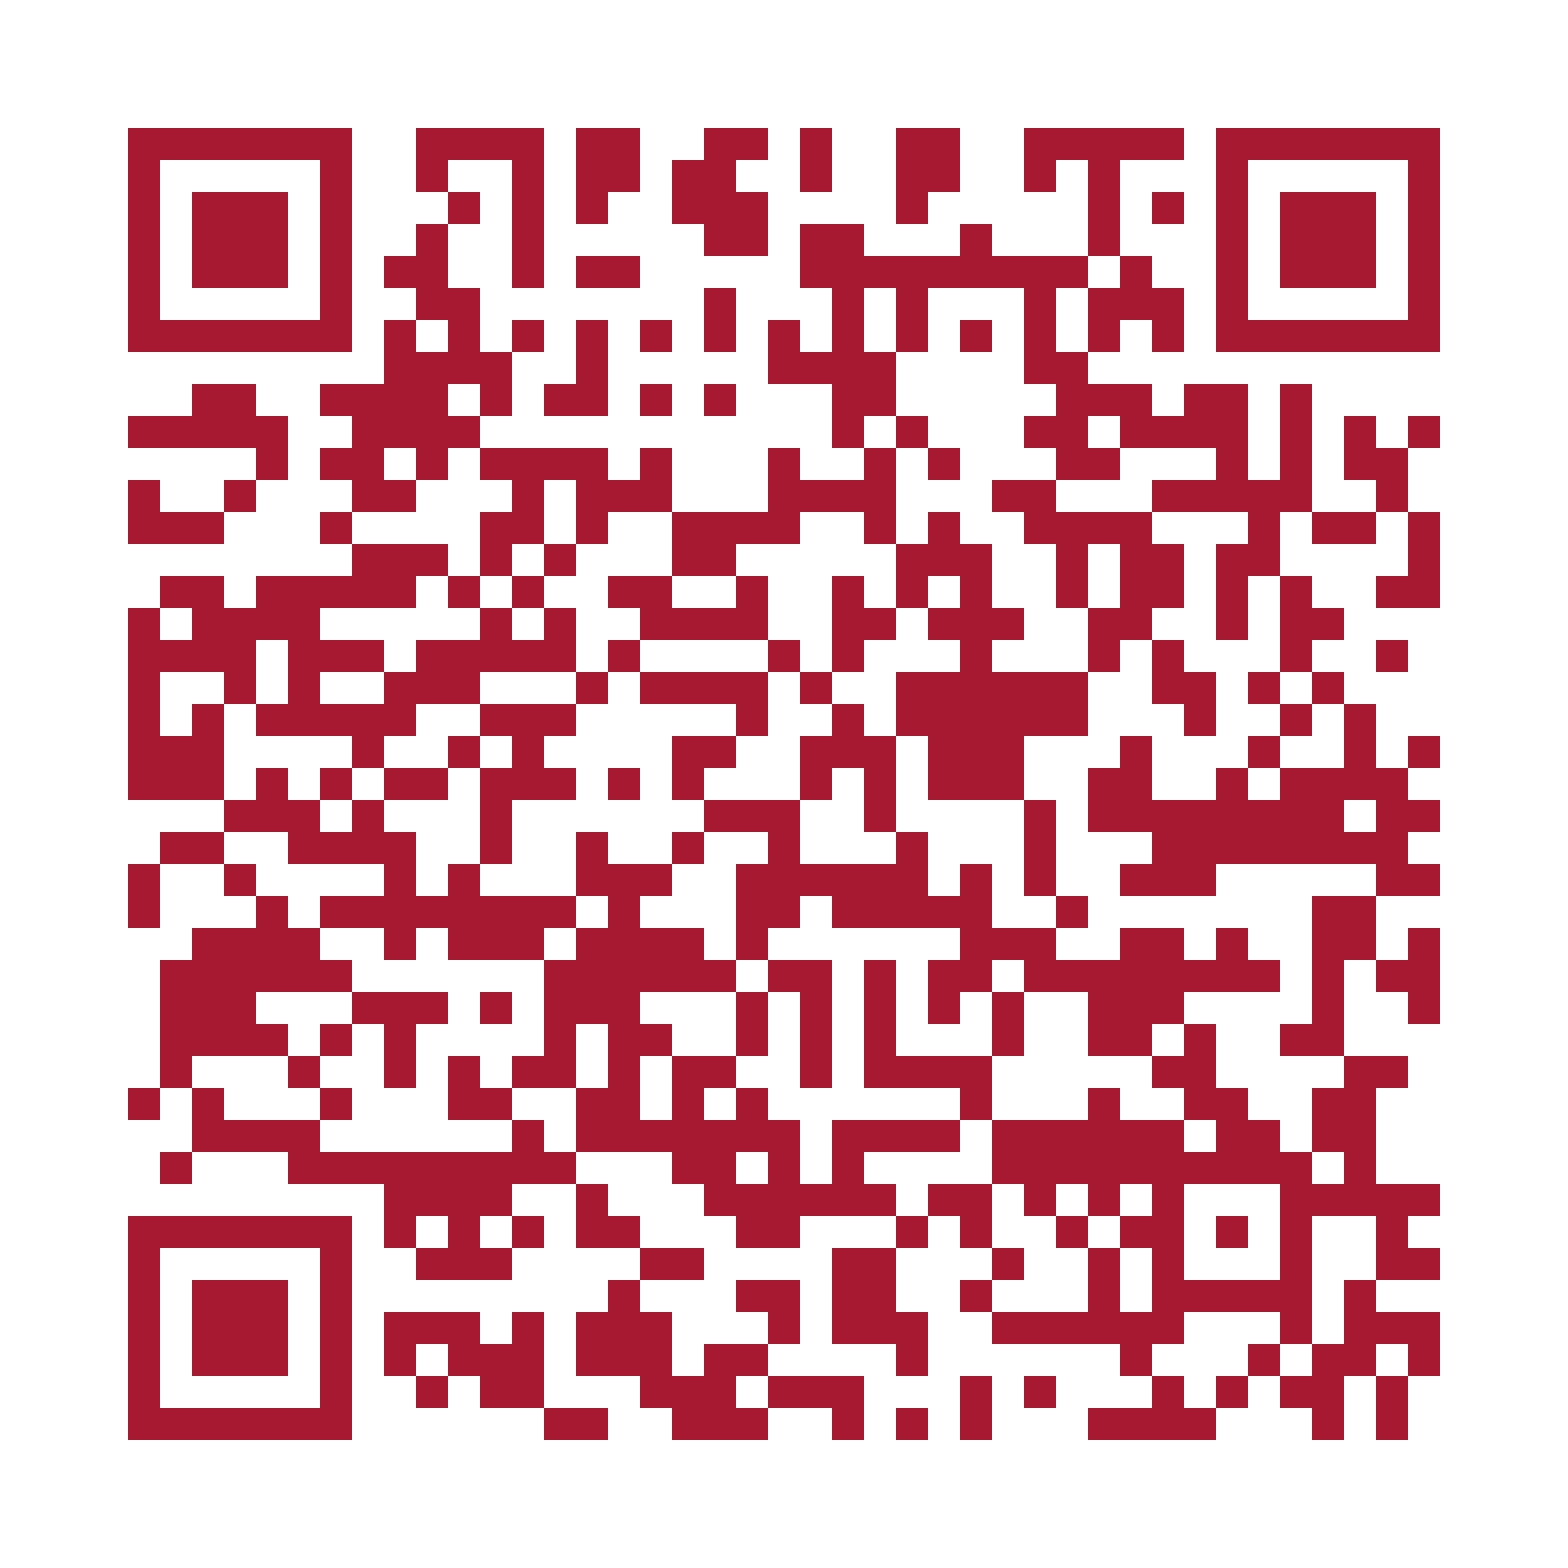
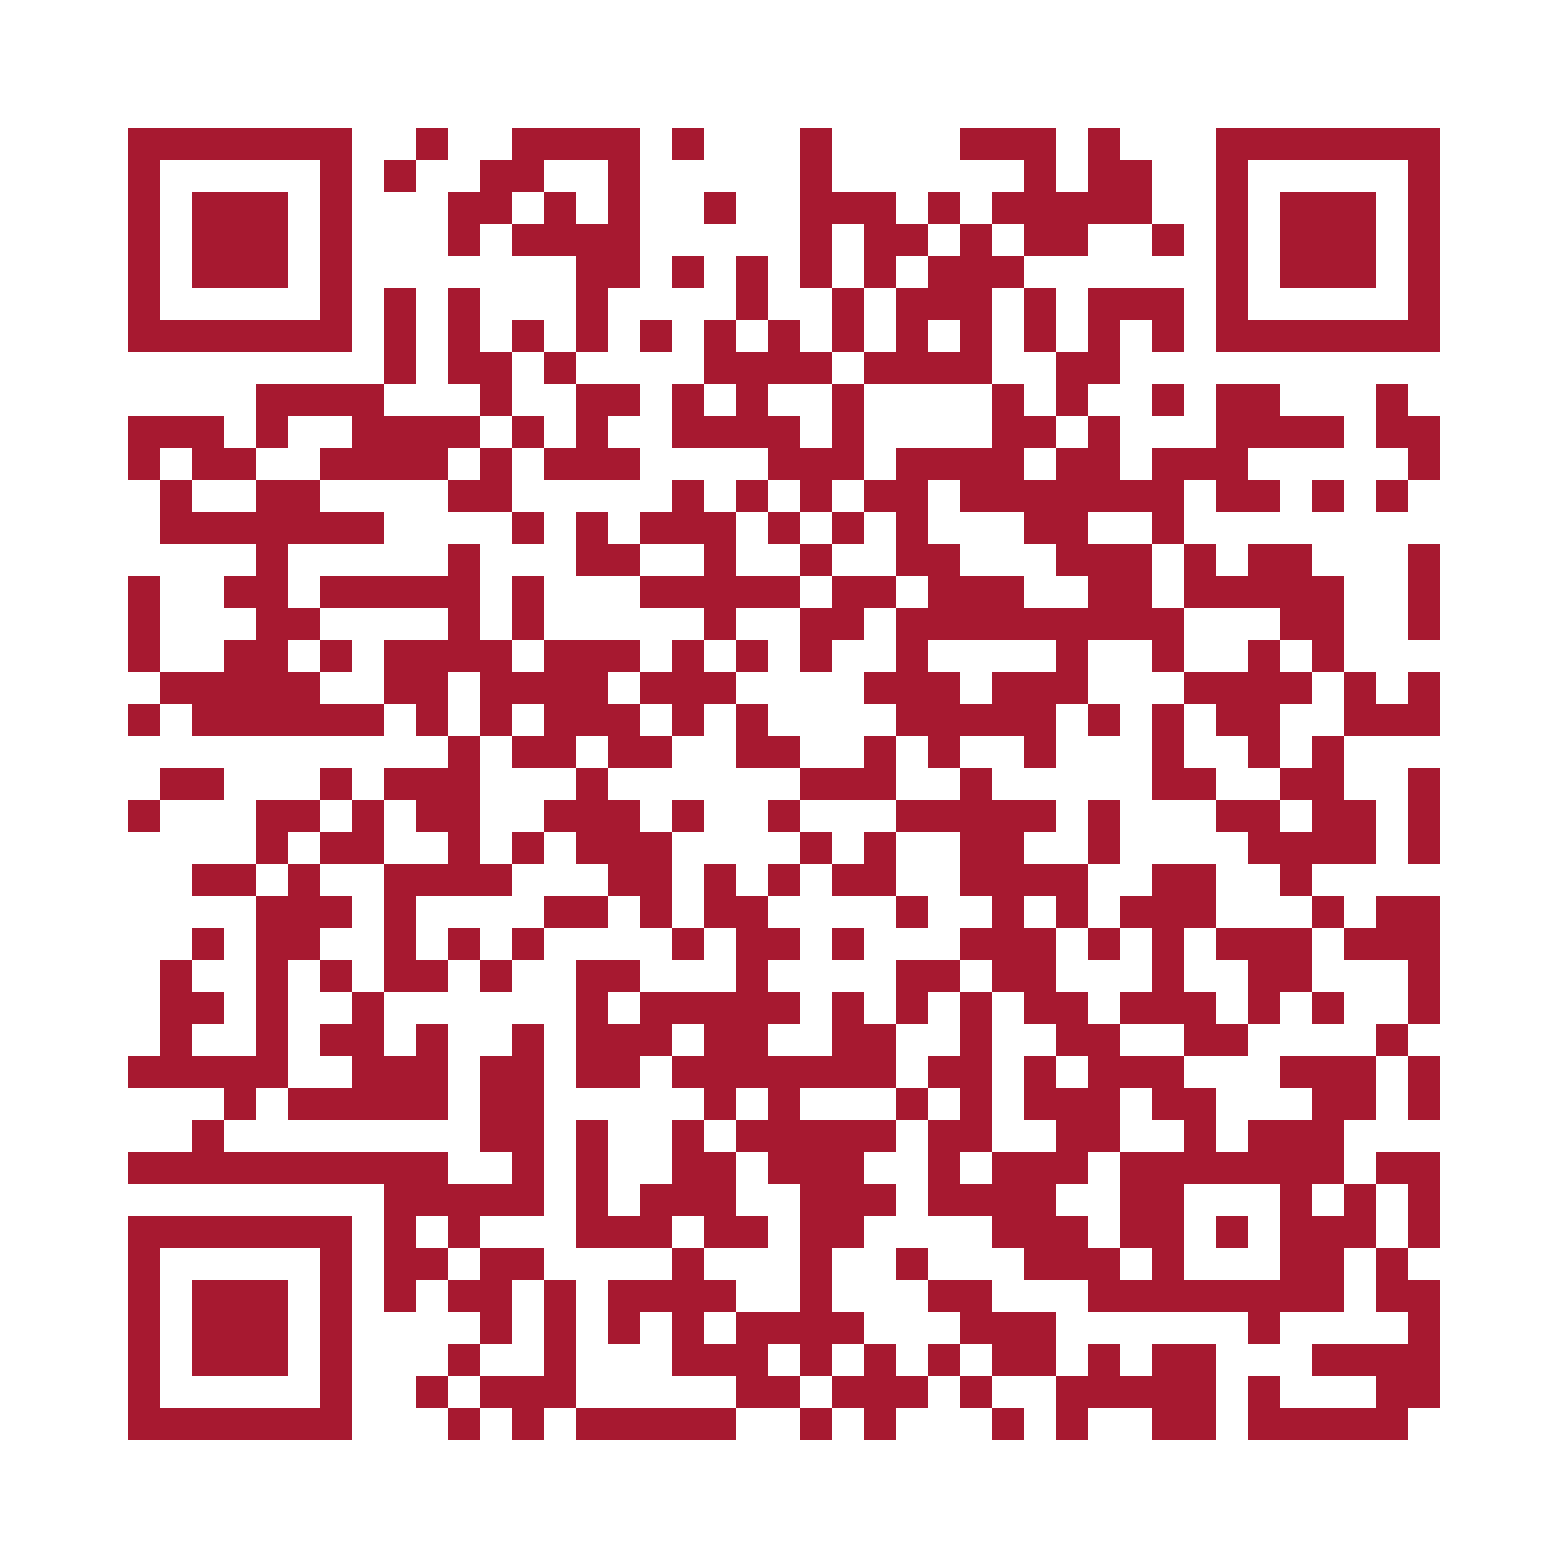
Update portal QR code URL

Changed region(s): [[0.0625, 0.0625, 0.9375, 0.9375]]

diff --git a/index.html b/index.html
@@ -221,7 +221,7 @@
         </div>
         <p class="qr-modal-description">Scannez ce code avec l’appareil photo de votre téléphone pour ouvrir le portail courriers clients.</p>
         <img class="qr-modal-image" src="qrcode-afgbank.png" alt="QR Code vers le portail AFG Bank Côte d'Ivoire">
-        <a class="qr-modal-url" href="https://drahjunior20-del.github.io/afgbank-courriers/" target="_blank" rel="noopener noreferrer">drahjunior20-del.github.io/afgbank-courriers</a>
+        <a class="qr-modal-url" href="https://afgbank-ci.github.io/afgbank-courriers/" target="_blank" rel="noopener noreferrer">afgbank-ci.github.io/afgbank-courriers</a>
         <div class="qr-modal-actions">
           <a class="button button-primary" href="qrcode-afgbank.png" download="qrcode-afgbank.png">Télécharger PNG</a>
           <a class="button button-secondary" href="qrcode-afgbank.svg" download="qrcode-afgbank.svg">Télécharger SVG</a>
